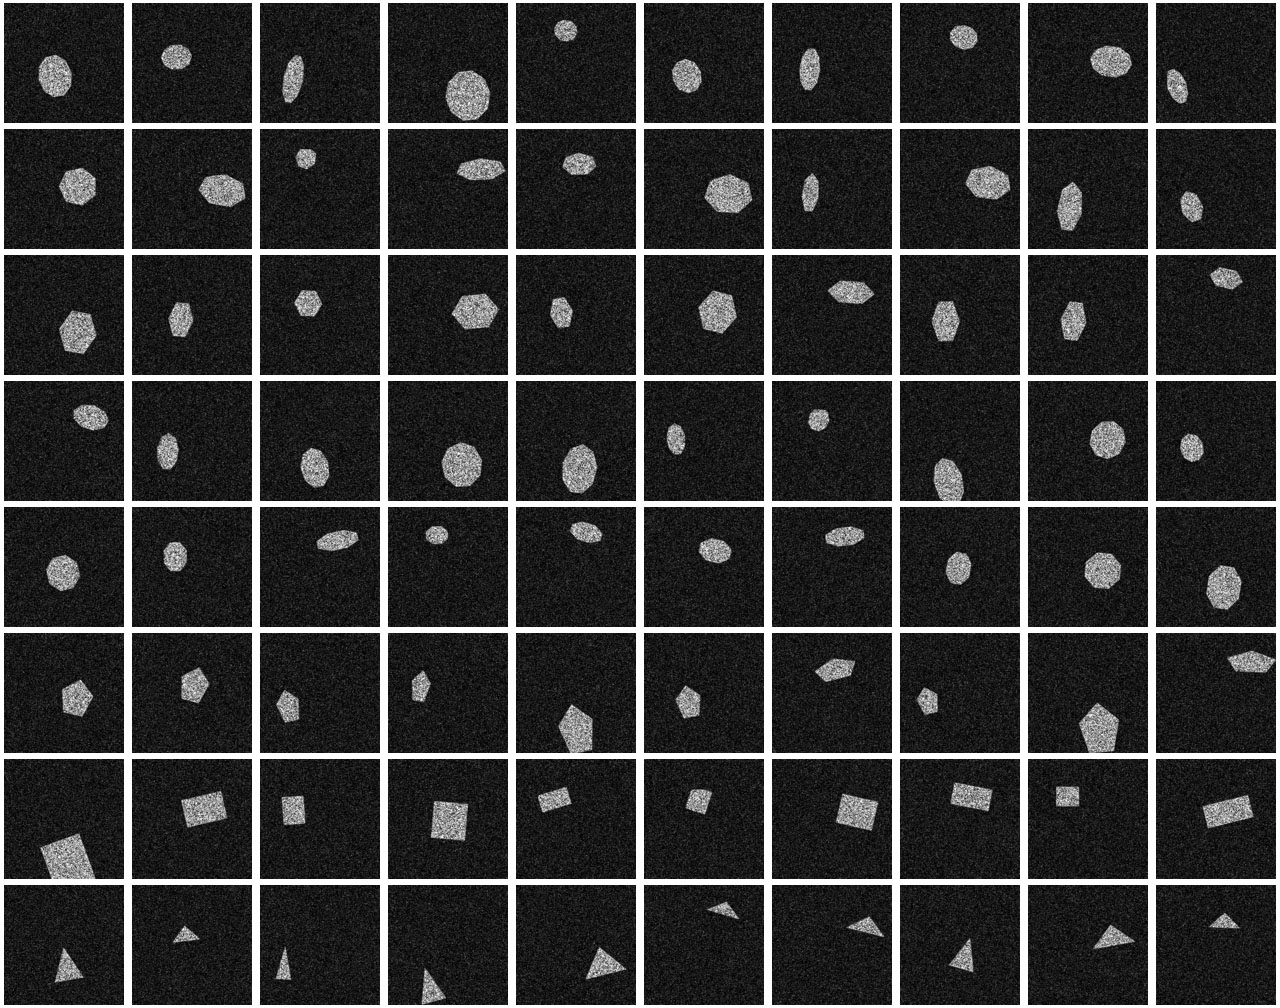
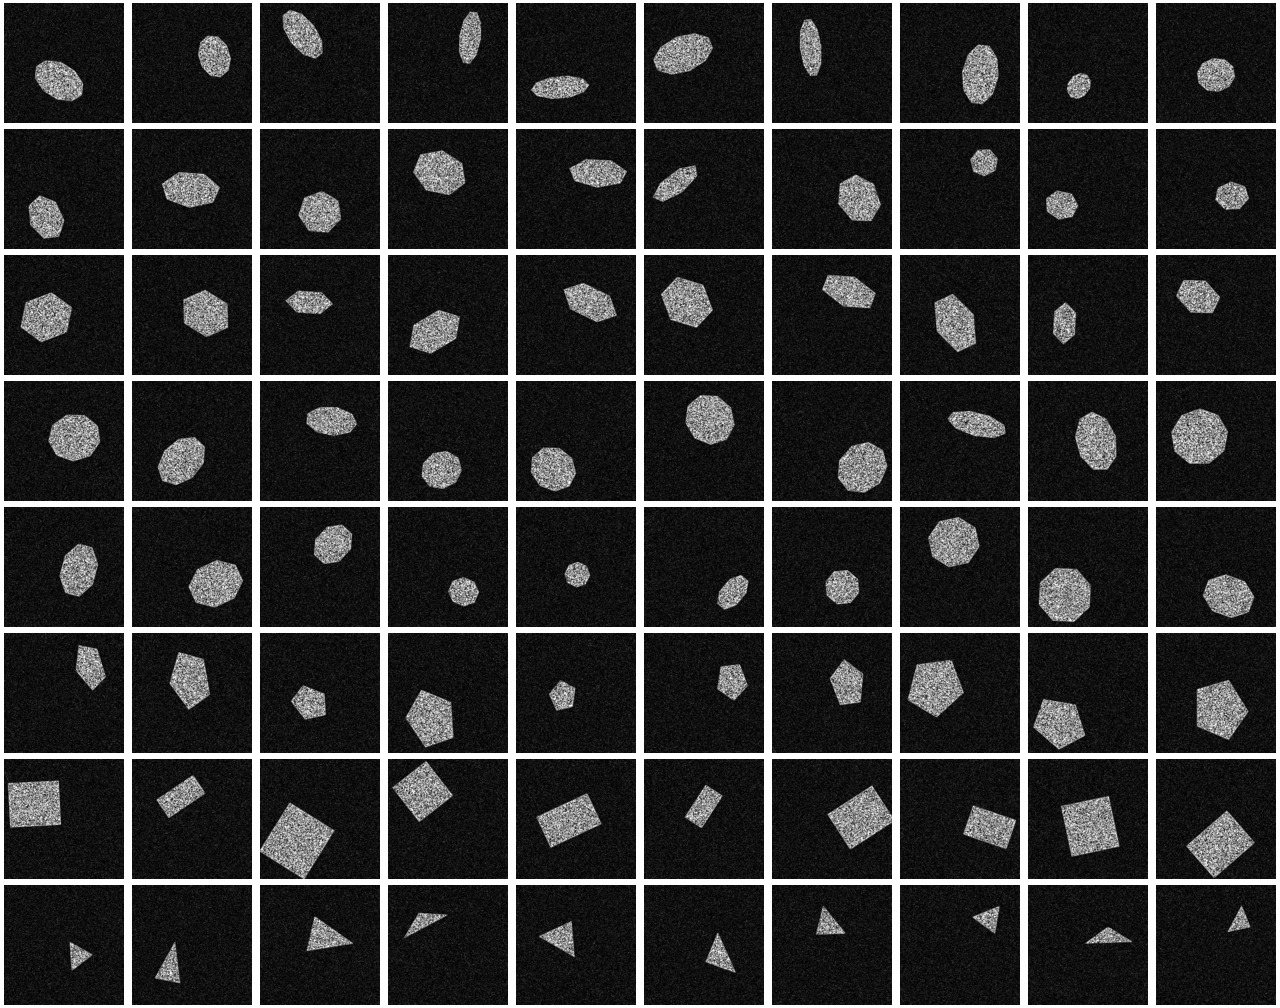
modified scaling/translation and added to config.

diff --git a/generate-samples.py b/generate-samples.py
@@ -31,17 +31,21 @@ for fn in os.listdir(CFG['input_folder']):
         rows,cols = img.shape
         
         rotate_angle = CFG['angle']/2 - int(CFG['angle'] * rnd.random())
-        scale_x = int((0.25 + (0.5 * rnd.random())) * rows)
-        scale_y = int((0.25 + (0.5 * rnd.random())) * cols)
+        scale_x = int((CFG['scale']/2 + (CFG['scale'] * rnd.random())) * rows)
+        scale_y = int((CFG['scale']/2 + (CFG['scale'] * rnd.random())) * cols)
         
-        translate_factor = 40
-        translate_x = scale_x / 2 + translate_factor/2 - int(translate_factor * rnd.random())
-        translate_y = scale_y / 2 + translate_factor/2 - int(translate_factor * rnd.random())
+        translate_factor = CFG['width']*CFG['translation']
+        translate_x = translate_factor/2 - int(translate_factor * rnd.random())
+        translate_y = translate_factor/2 - int(translate_factor * rnd.random())
                 
         M_translate = np.float32([[1,0,translate_x],[0,1,translate_y]])
         M_rotate = cv2.getRotationMatrix2D((cols/2,rows/2),rotate_angle,1)
 
         img = cv2.resize(img,(scale_x, scale_y), interpolation = cv2.INTER_CUBIC)
+        pad_x = (CFG['width']-img.shape[0])/2
+        pad_y = (CFG['height']-img.shape[1])/2
+        img = cv2.copyMakeBorder(img,pad_x,pad_x,pad_y,pad_y,cv2.BORDER_CONSTANT,value=[0,0,0])
+
         img = cv2.warpAffine(img, M_rotate, (cols,rows))
         img = cv2.warpAffine(img, M_translate, (cols,rows))
 
